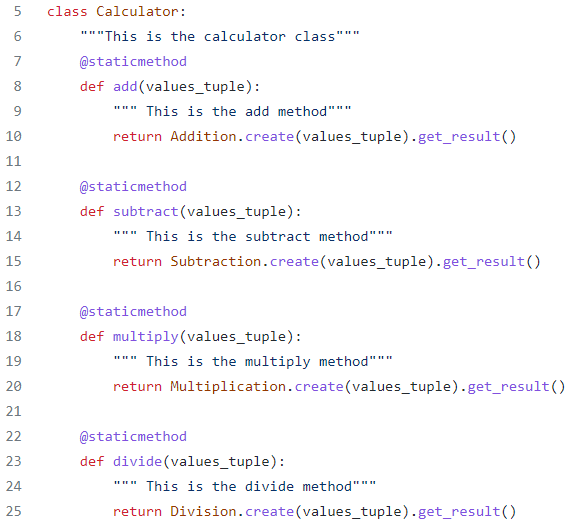
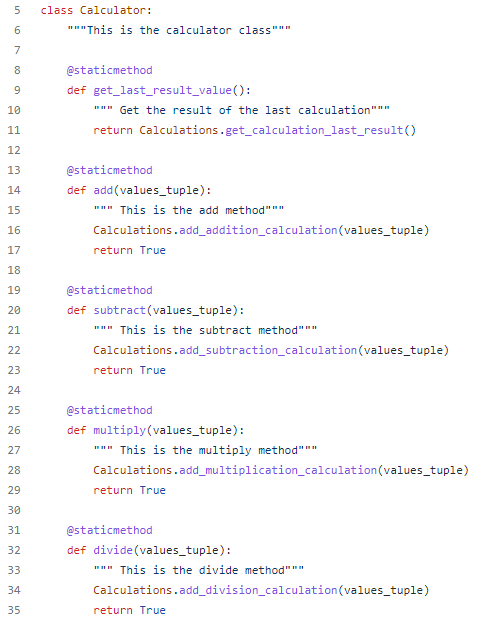
Updated calculator_class.png image in the OOP principles article

diff --git a/app/simple_pages/templates/solid.html b/app/simple_pages/templates/solid.html
@@ -125,14 +125,14 @@
         </div>
         <div class="row">
             <div class="col-8">
-                <h4><b>OVERVIEW OF DESIGN PATTERNS</b></h4>
+                <h4><b>DESIGN PATTERNS</b></h4>
                 <p>
                     When you take the properties of OOP and combine it with SOLID, the result becomes design patterns.<br><br>
                     Design patterns are established, consistent industry standard ways of doing 23 of the most common actions a program needs to do in OOP. <br><br>
                     They help each programmer's solutions to look alike to more easily be able to pick up and work on someone else's code.<br><br>
                     Some of the design patterns we use in our calculator include: <b>facade, factory, command, and decorators</b>.<br><br>
                 </p>
-                <h5><b>Facade</b></h5><br>
+                <h5><b>Facade Pattern</b></h5><br>
                 <p>
                     A facade pattern is accomplished when a program takes its separate classes and wraps them to cover up their separate nature so that it looks to the end user that the program is one cohesive program.<br><br>
                     Facades cover up the tons of classes and code inside the program to make it look simpler to the user much like how a house covers its wood and insulation.<br><br><br>
@@ -143,7 +143,7 @@
                     Just looking at the calculator class itself, the end user cannot see all the methods used in for calculating in <a href="https://github.com/tlr24/IS601-docker-flask/blob/master/calculator/calculations/__init__.py">calculation/__init__.py</a> and <a href="https://github.com/tlr24/IS601-docker-flask/blob/master/calculator/operations/__init__.py">operations/__init__.py</a>.<br><br>
                     All the behind-the-scenes code is abstracted into a cover Calculator class facade.
                 </p>
-                <h5><b>Factory</b></h5><br>
+                <h5><b>Factory Pattern</b></h5><br>
                 <p>
                     A factory pattern's purpose is to create and return an instance of a class.<br>
                     It is a more standardized way of instantiating an object.<br><br>
@@ -154,7 +154,7 @@
                     The create method creates an instance/object of whatever type of calculation you are trying to get.<br><br>
                     It's single responsibility is to create and return an instance of the Calculation class, following the SRP.<br><br>
                 </p>
-                <h5><b>Command</b></h5><br>
+                <h5><b>Command Pattern</b></h5><br>
                 <p>
                     The command pattern allows the program to invoke specific methods for specific objects.<br>
                     This allows the program to have less 'if' statements, making it more streamlined and work more efficiently.<br><br>
@@ -165,7 +165,7 @@
                         alt="command_pattern_history"><br><br>
                     Each time we call one of these methods, it goes through the command chain of following through with the specific operation we called for.<br><br>
                 </p>
-                <h5><b>Decorators</b></h5><br>
+                <h5><b>Decorators Pattern</b></h5><br>
                 <p>
                     Decorators are a structural pattern that allow object to have a new functionality added to them by putting them inside special wrappers.<br><br>
                     An example of a decorator in our calculator program is <code>@pytest.fixture</code> in <a href="https://github.com/tlr24/IS601-docker-flask/blob/master/tests/history_test.py">history_test.py</a>.<br><br>
@@ -193,7 +193,7 @@
                 <img src="{{ url_for('static', filename='images/facade.png') }}"
                     class="w-30" width="100%"
                     alt="facade">
-                <br><br><br><br><br><br><br><br><br><br><br><br><br><br>
+                <br><br><br><br><br><br><br><br><br><br><br><br><br><br><br><br><br><br>
                 <img src="{{ url_for('static', filename='images/factory.png') }}"
                     class="w-30" width="100%"
                     alt="factory">

diff --git a/app/simple_pages/templates/oop_principles.html b/app/simple_pages/templates/oop_principles.html
@@ -225,7 +225,7 @@
         </div>
     <div class="row">
         <div class="col-8">
-            The actual code that does all the calculating for these methods is hidden behind the <code>Addition.create(values_tuple).get_result()</code> (etc.) methods found in the Calculation classes which then inherits all the Addition, Subtraction, etc. classes that contain the methods with the actual code to do the calculations. <br><br>
+            The actual code that does all the calculating for these methods is hidden behind the <code>Calculations.add_addition_calculation(values_tuple)</code> (etc.) methods found in the Calculation classes which then inherits all the Addition, Subtraction, etc. classes that contain the methods with the actual code to do the calculations. <br><br>
                 Here is the hidden code behind the <code>add()</code> method in <a href="https://github.com/tlr24/IS601-docker-flask/blob/master/calculator/calculation/__init__.py">calculation/__init__.py</a> and <a href="https://github.com/tlr24/IS601-docker-flask/blob/master/calculator/operations/__init__.py">operations/__init__.py</a>:<br><br>
                 <b>calculation/__init__.py:</b><br>
                 <img src="{{ url_for('static', filename='images/addition_class.png') }}"
